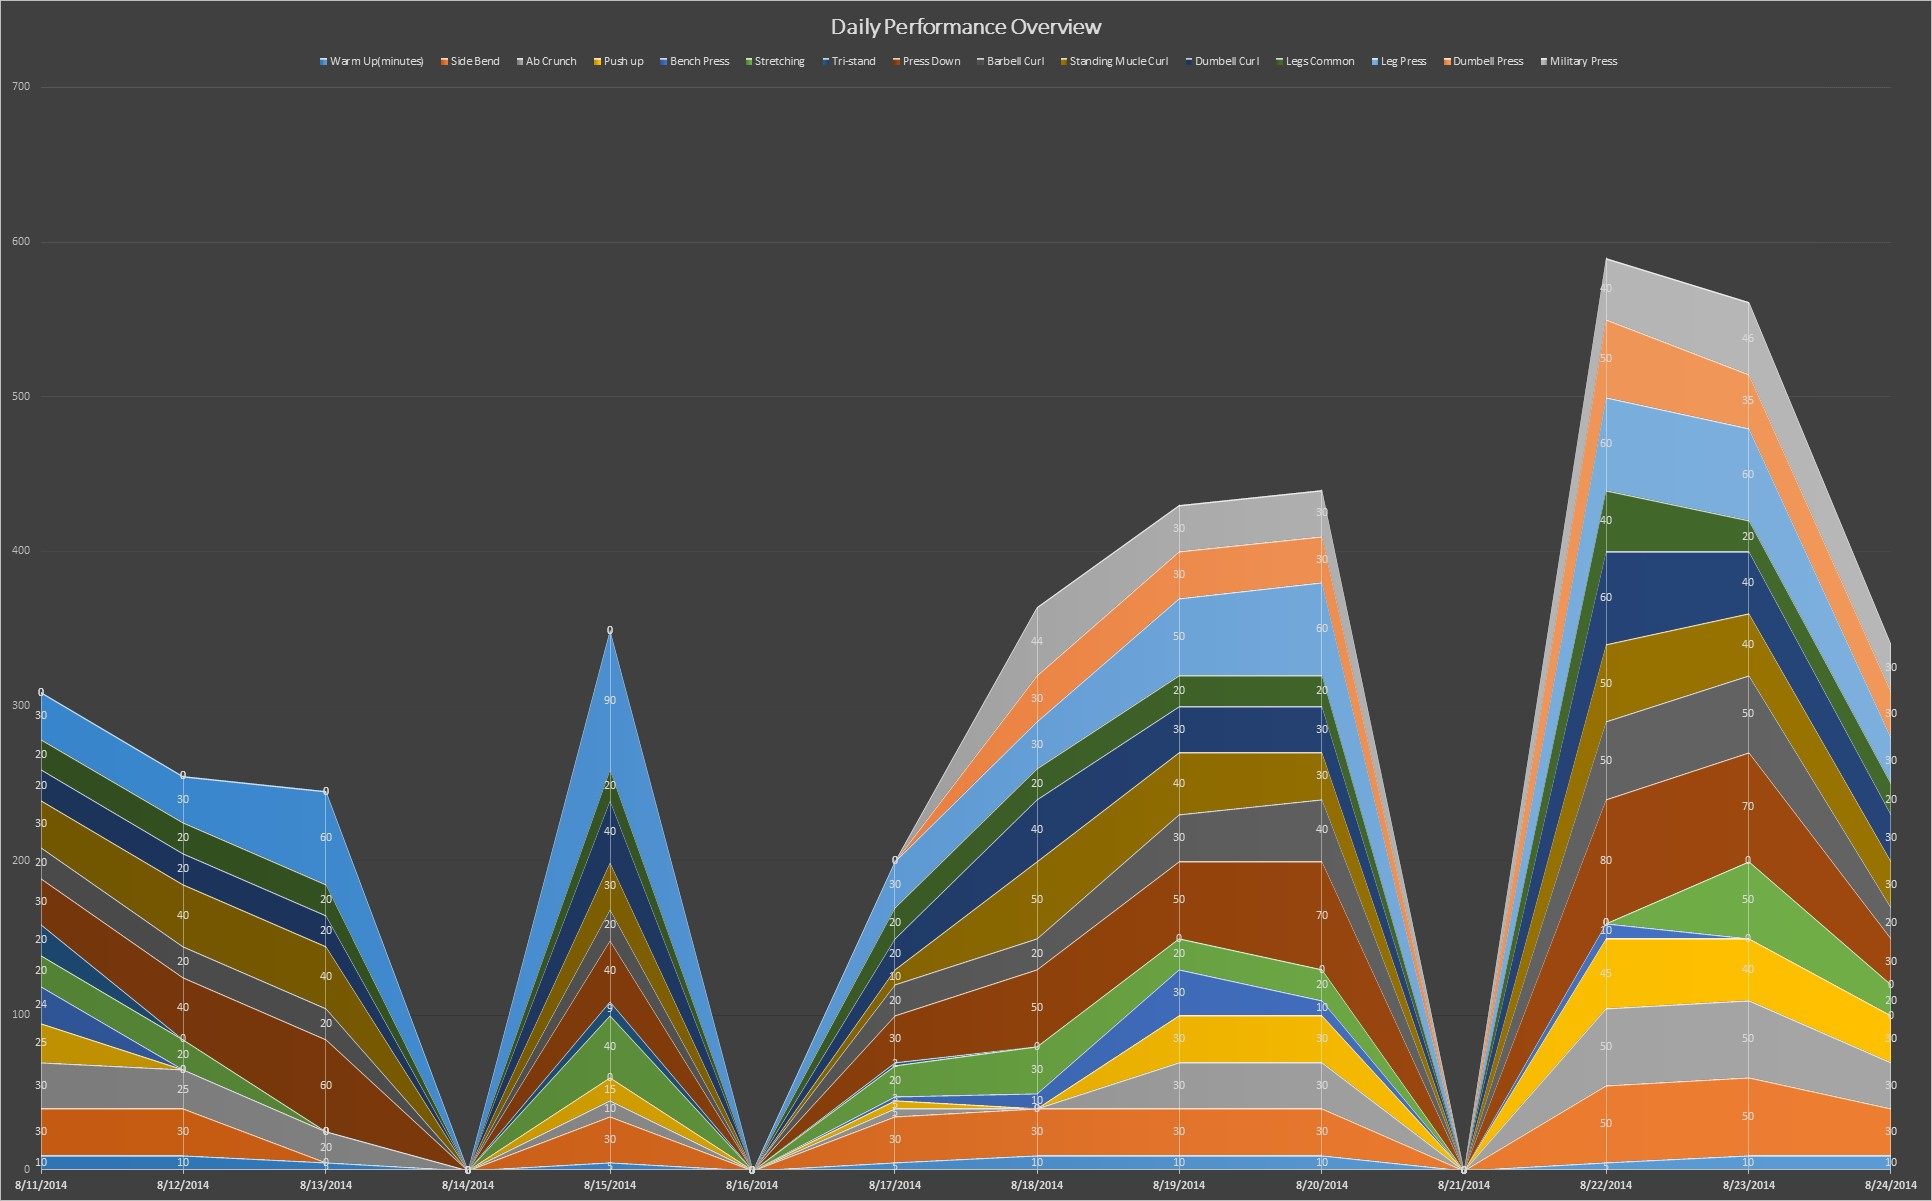
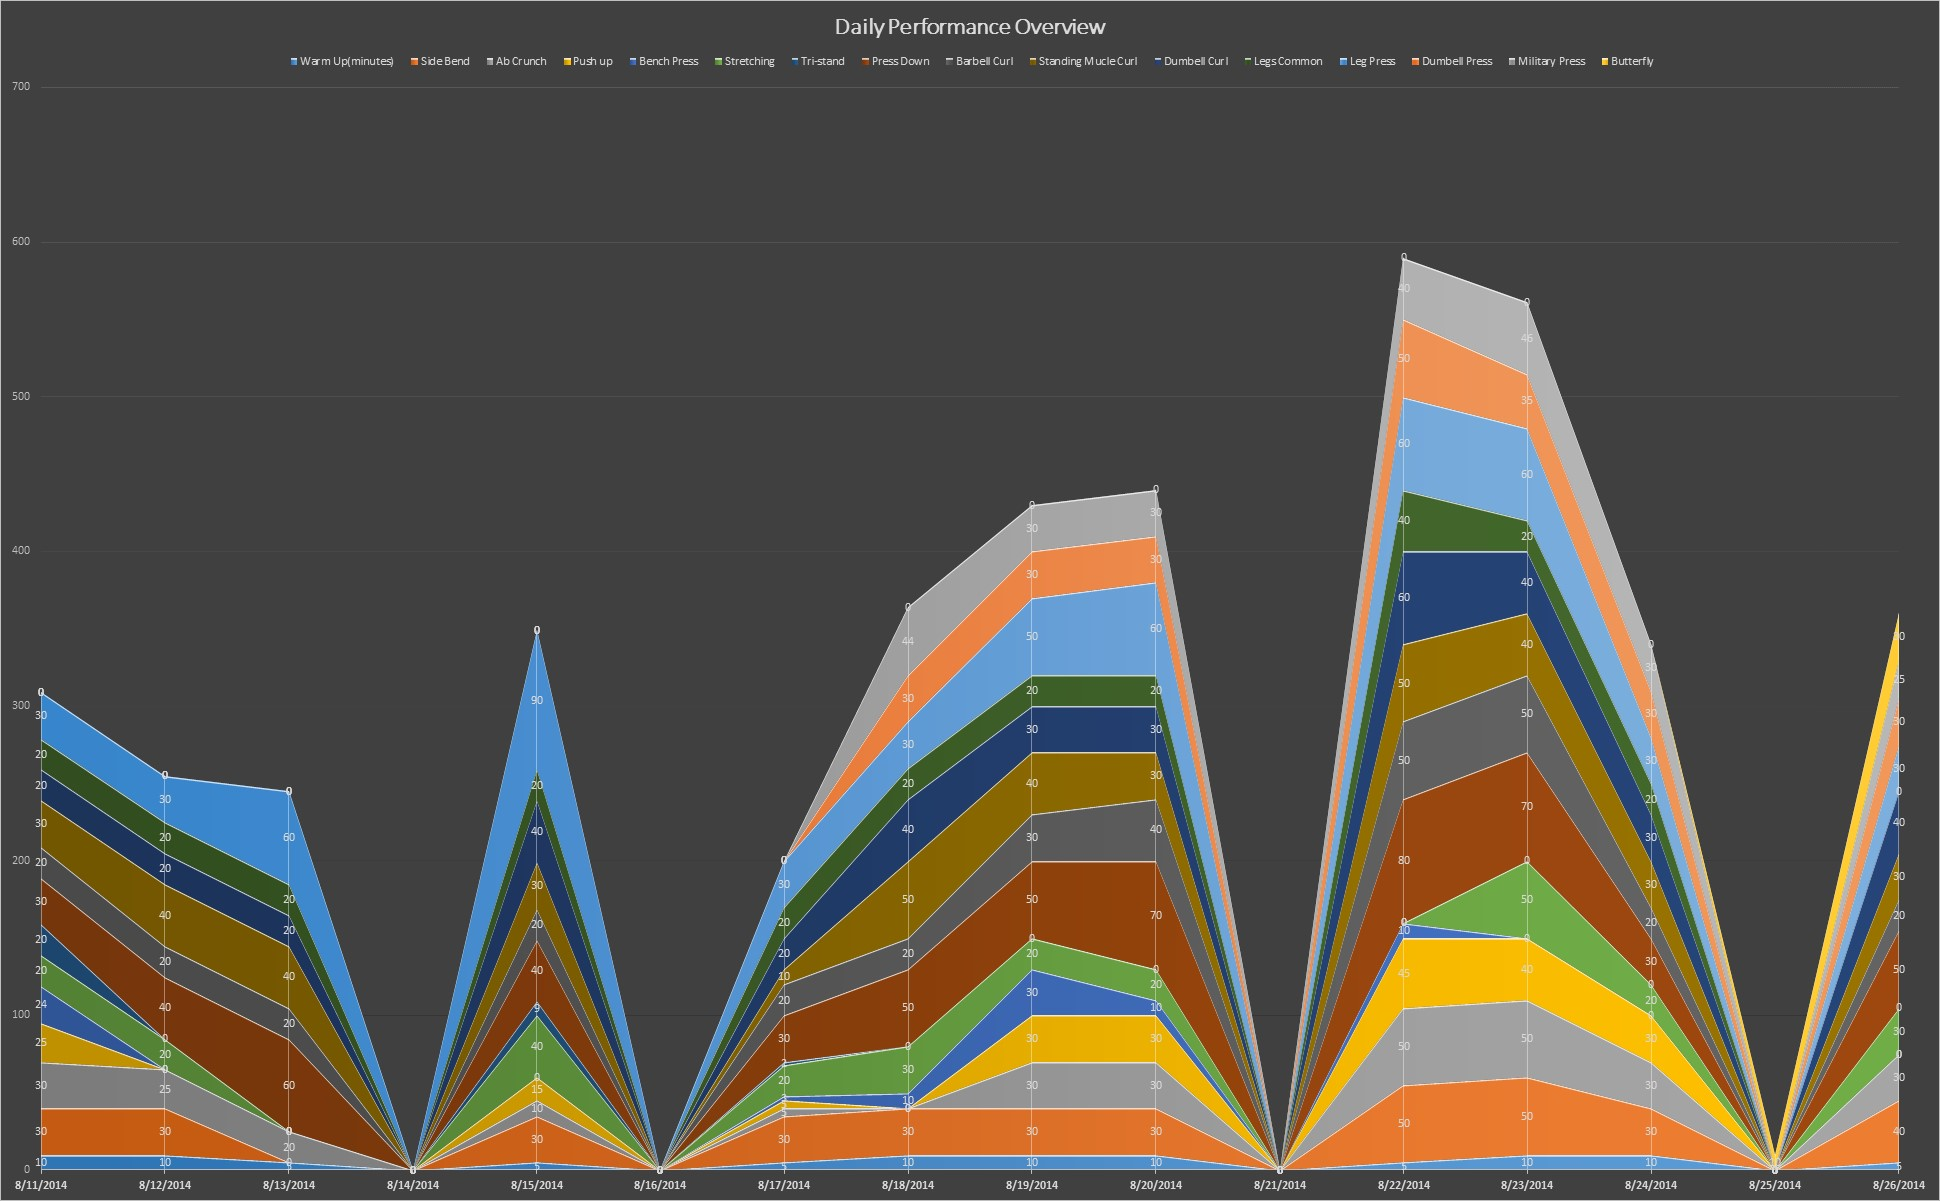
Fitness Update 8/27/2014

diff --git a/_posts/2014-08-11-fitness-tracker.md b/_posts/2014-08-11-fitness-tracker.md
@@ -3,7 +3,7 @@ layout: post
 title: "Fitness Tracker"
 description: Tracking my gym activities
 headline: 
-modified: 2014-08-25 11:55:00 +0600
+modified: 2014-08-27 01:39:00 +0600
 category: personal
 tags: [gym, fitness]
 imagefeature: 
@@ -33,286 +33,7 @@ This graph is generated using a [amCharts.JS](http://www.amcharts.com/) and is u
 
 {% include fitnesstracker.html %}
 
-<style type="text/css">
-.tg  {border-collapse:collapse;border-spacing:0;border-color:#aaa;margin:0px auto; margin-bottom: 20px; margin-top: 15px;}
-.tg td{font-family:Arial, sans-serif;font-size:14px;padding:10px 5px;border-style:solid;border-width:1px;overflow:hidden;word-break:normal;border-color:#aaa;color:#333;background-color:#fff;}
-.tg th{font-family:Arial, sans-serif;font-size:14px;font-weight:normal;padding:10px 5px;border-style:solid;border-width:1px;overflow:hidden;word-break:normal;border-color:#aaa;color:#fff;background-color:#f38630;}
-.tg .tg-z2zr{background-color:#FCFBE3}
-</style>
-<table class="tg" style="width:100%">
-  <tr>
-    <th class="tg-031e">Exercises</th>
-    <th class="tg-031e">8/11/2014</th>
-    <th class="tg-031e">8/12/2014</th>
-    <th class="tg-031e">8/13/2014</th>
-    <th class="tg-031e">8/14/2014</th>
-    <th class="tg-031e">8/15/2014</th>
-    <th class="tg-031e">8/16/2014</th>
-    <th class="tg-031e">8/17/2014</th>
-    <th class="tg-031e">8/18/2014</th>
-    <th class="tg-031e">8/19/2014</th>
-    <th class="tg-031e">8/20/2014</th>
-    <th class="tg-031e">8/21/2014</th>
-    <th class="tg-031e">8/22/2014</th>
-    <th class="tg-031e">8/23/2014</th>
-    <th class="tg-031e">8/24/2014</th>
-  </tr>
-  <tr>
-    <td class="tg-z2zr">Warm Up(minutes)</td>
-    <td class="tg-z2zr">10</td>
-    <td class="tg-z2zr">10</td>
-    <td class="tg-z2zr">5</td>
-    <td class="tg-z2zr">0</td>
-    <td class="tg-z2zr">5</td>
-    <td class="tg-z2zr">0</td>
-    <td class="tg-z2zr">5</td>
-    <td class="tg-z2zr">10</td>
-    <td class="tg-z2zr">10</td>
-    <td class="tg-z2zr">10</td>
-    <td class="tg-z2zr">0</td>
-    <td class="tg-z2zr">5</td>
-    <td class="tg-z2zr">10</td>
-    <td class="tg-z2zr">10</td>
-  </tr>
-  <tr>
-    <td class="tg-031e">Side Bend</td>
-    <td class="tg-031e">30</td>
-    <td class="tg-031e">30</td>
-    <td class="tg-031e">0</td>
-    <td class="tg-031e">0</td>
-    <td class="tg-031e">30</td>
-    <td class="tg-031e">0</td>
-    <td class="tg-031e">30</td>
-    <td class="tg-031e">30</td>
-    <td class="tg-031e">30</td>
-    <td class="tg-031e">30</td>
-    <td class="tg-031e">0</td>
-    <td class="tg-031e">50</td>
-    <td class="tg-031e">50</td>
-    <td class="tg-031e">30</td>
-  </tr>
-  <tr>
-    <td class="tg-z2zr">Ab Crunch</td>
-    <td class="tg-z2zr">30</td>
-    <td class="tg-z2zr">25</td>
-    <td class="tg-z2zr">20</td>
-    <td class="tg-z2zr">0</td>
-    <td class="tg-z2zr">10</td>
-    <td class="tg-z2zr">0</td>
-    <td class="tg-z2zr">5</td>
-    <td class="tg-z2zr">0</td>
-    <td class="tg-z2zr">30</td>
-    <td class="tg-z2zr">30</td>
-    <td class="tg-z2zr">0</td>
-    <td class="tg-z2zr">50</td>
-    <td class="tg-z2zr">50</td>
-    <td class="tg-z2zr">30</td>
-  </tr>
-  <tr>
-    <td class="tg-031e">Push up</td>
-    <td class="tg-031e">25</td>
-    <td class="tg-031e">0</td>
-    <td class="tg-031e">0</td>
-    <td class="tg-031e">0</td>
-    <td class="tg-031e">15</td>
-    <td class="tg-031e">0</td>
-    <td class="tg-031e">5</td>
-    <td class="tg-031e">0</td>
-    <td class="tg-031e">30</td>
-    <td class="tg-031e">30</td>
-    <td class="tg-031e">0</td>
-    <td class="tg-031e">45</td>
-    <td class="tg-031e">40</td>
-    <td class="tg-031e">30</td>
-  </tr>
-  <tr>
-    <td class="tg-z2zr">Bench Press</td>
-    <td class="tg-z2zr">24</td>
-    <td class="tg-z2zr">0</td>
-    <td class="tg-z2zr">0</td>
-    <td class="tg-z2zr">0</td>
-    <td class="tg-z2zr">0</td>
-    <td class="tg-z2zr">0</td>
-    <td class="tg-z2zr">3</td>
-    <td class="tg-z2zr">10</td>
-    <td class="tg-z2zr">30</td>
-    <td class="tg-z2zr">10</td>
-    <td class="tg-z2zr">0</td>
-    <td class="tg-z2zr">10</td>
-    <td class="tg-z2zr">0</td>
-    <td class="tg-z2zr">0</td>
-  </tr>
-  <tr>
-    <td class="tg-031e">Stretching</td>
-    <td class="tg-031e">20</td>
-    <td class="tg-031e">20</td>
-    <td class="tg-031e">0</td>
-    <td class="tg-031e">0</td>
-    <td class="tg-031e">40</td>
-    <td class="tg-031e">0</td>
-    <td class="tg-031e">20</td>
-    <td class="tg-031e">30</td>
-    <td class="tg-031e">20</td>
-    <td class="tg-031e">20</td>
-    <td class="tg-031e">0</td>
-    <td class="tg-031e">0</td>
-    <td class="tg-031e">50</td>
-    <td class="tg-031e">20</td>
-  </tr>
-  <tr>
-    <td class="tg-z2zr">Tri-stand</td>
-    <td class="tg-z2zr">20</td>
-    <td class="tg-z2zr">0</td>
-    <td class="tg-z2zr">0</td>
-    <td class="tg-z2zr">0</td>
-    <td class="tg-z2zr">9</td>
-    <td class="tg-z2zr">0</td>
-    <td class="tg-z2zr">2</td>
-    <td class="tg-z2zr">0</td>
-    <td class="tg-z2zr">0</td>
-    <td class="tg-z2zr">0</td>
-    <td class="tg-z2zr">0</td>
-    <td class="tg-z2zr">0</td>
-    <td class="tg-z2zr">0</td>
-    <td class="tg-z2zr">0</td>
-  </tr>
-  <tr>
-    <td class="tg-031e">Press Down</td>
-    <td class="tg-031e">30</td>
-    <td class="tg-031e">40</td>
-    <td class="tg-031e">60</td>
-    <td class="tg-031e">0</td>
-    <td class="tg-031e">40</td>
-    <td class="tg-031e">0</td>
-    <td class="tg-031e">30</td>
-    <td class="tg-031e">50</td>
-    <td class="tg-031e">50</td>
-    <td class="tg-031e">70</td>
-    <td class="tg-031e">0</td>
-    <td class="tg-031e">80</td>
-    <td class="tg-031e">70</td>
-    <td class="tg-031e">30</td>
-  </tr>
-  <tr>
-    <td class="tg-z2zr">Barbell Curl</td>
-    <td class="tg-z2zr">20</td>
-    <td class="tg-z2zr">20</td>
-    <td class="tg-z2zr">20</td>
-    <td class="tg-z2zr">0</td>
-    <td class="tg-z2zr">20</td>
-    <td class="tg-z2zr">0</td>
-    <td class="tg-z2zr">20</td>
-    <td class="tg-z2zr">20</td>
-    <td class="tg-z2zr">30</td>
-    <td class="tg-z2zr">40</td>
-    <td class="tg-z2zr">0</td>
-    <td class="tg-z2zr">50</td>
-    <td class="tg-z2zr">50</td>
-    <td class="tg-z2zr">20</td>
-  </tr>
-  <tr>
-    <td class="tg-031e">Standing Mucle Curl</td>
-    <td class="tg-031e">30</td>
-    <td class="tg-031e">40</td>
-    <td class="tg-031e">40</td>
-    <td class="tg-031e">0</td>
-    <td class="tg-031e">30</td>
-    <td class="tg-031e">0</td>
-    <td class="tg-031e">10</td>
-    <td class="tg-031e">50</td>
-    <td class="tg-031e">40</td>
-    <td class="tg-031e">30</td>
-    <td class="tg-031e">0</td>
-    <td class="tg-031e">50</td>
-    <td class="tg-031e">40</td>
-    <td class="tg-031e">30</td>
-  </tr>
-  <tr>
-    <td class="tg-z2zr">Dumbell Curl</td>
-    <td class="tg-z2zr">20</td>
-    <td class="tg-z2zr">20</td>
-    <td class="tg-z2zr">20</td>
-    <td class="tg-z2zr">0</td>
-    <td class="tg-z2zr">40</td>
-    <td class="tg-z2zr">0</td>
-    <td class="tg-z2zr">20</td>
-    <td class="tg-z2zr">40</td>
-    <td class="tg-z2zr">30</td>
-    <td class="tg-z2zr">30</td>
-    <td class="tg-z2zr">0</td>
-    <td class="tg-z2zr">60</td>
-    <td class="tg-z2zr">40</td>
-    <td class="tg-z2zr">30</td>
-  </tr>
-  <tr>
-    <td class="tg-031e">Legs Common</td>
-    <td class="tg-031e">20</td>
-    <td class="tg-031e">20</td>
-    <td class="tg-031e">20</td>
-    <td class="tg-031e">0</td>
-    <td class="tg-031e">20</td>
-    <td class="tg-031e">0</td>
-    <td class="tg-031e">20</td>
-    <td class="tg-031e">20</td>
-    <td class="tg-031e">20</td>
-    <td class="tg-031e">20</td>
-    <td class="tg-031e">0</td>
-    <td class="tg-031e">40</td>
-    <td class="tg-031e">20</td>
-    <td class="tg-031e">20</td>
-  </tr>
-  <tr>
-    <td class="tg-z2zr">Leg Press</td>
-    <td class="tg-z2zr">30</td>
-    <td class="tg-z2zr">30</td>
-    <td class="tg-z2zr">60</td>
-    <td class="tg-z2zr">0</td>
-    <td class="tg-z2zr">90</td>
-    <td class="tg-z2zr">0</td>
-    <td class="tg-z2zr">30</td>
-    <td class="tg-z2zr">30</td>
-    <td class="tg-z2zr">50</td>
-    <td class="tg-z2zr">60</td>
-    <td class="tg-z2zr">0</td>
-    <td class="tg-z2zr">60</td>
-    <td class="tg-z2zr">60</td>
-    <td class="tg-z2zr">30</td>
-  </tr>
-  <tr>
-    <td class="tg-031e">Dumbell Press</td>
-    <td class="tg-031e">0</td>
-    <td class="tg-031e">0</td>
-    <td class="tg-031e">0</td>
-    <td class="tg-031e">0</td>
-    <td class="tg-031e">0</td>
-    <td class="tg-031e">0</td>
-    <td class="tg-031e">0</td>
-    <td class="tg-031e">30</td>
-    <td class="tg-031e">30</td>
-    <td class="tg-031e">30</td>
-    <td class="tg-031e">0</td>
-    <td class="tg-031e">50</td>
-    <td class="tg-031e">35</td>
-    <td class="tg-031e">30</td>
-  </tr>
-  <tr>
-    <td class="tg-z2zr">Military Press</td>
-    <td class="tg-z2zr">0</td>
-    <td class="tg-z2zr">0</td>
-    <td class="tg-z2zr">0</td>
-    <td class="tg-z2zr">0</td>
-    <td class="tg-z2zr">0</td>
-    <td class="tg-z2zr">0</td>
-    <td class="tg-z2zr">0</td>
-    <td class="tg-z2zr">44</td>
-    <td class="tg-z2zr">30</td>
-    <td class="tg-z2zr">30</td>
-    <td class="tg-z2zr">0</td>
-    <td class="tg-z2zr">40</td>
-    <td class="tg-z2zr">46</td>
-    <td class="tg-z2zr">30</td>
-  </tr>
-</table>
+{% include fitnesssheet.html %}
 
 A little bit of analysis of these data provides me with useful information regarding my performance. The first chart is the most important one. The stacked Area Chart shows my combined **Day-to-Day** performance, which is a useful indicator to check out whether my overall performance is increasing or decreasing. The valleys in the chart represent days I have taken off days. I call this chart important as it provides me with a slope that lets me determine the overall aspects of my performance regardless of the performances in individual exercises. An increasing slope is always a good sign and highly expected. The second chart shows my areas of strength. The third graph chart the overall performance and the relations between different exercises in my exercise regiment. These graphs are generated using a `.vb` script.
 
